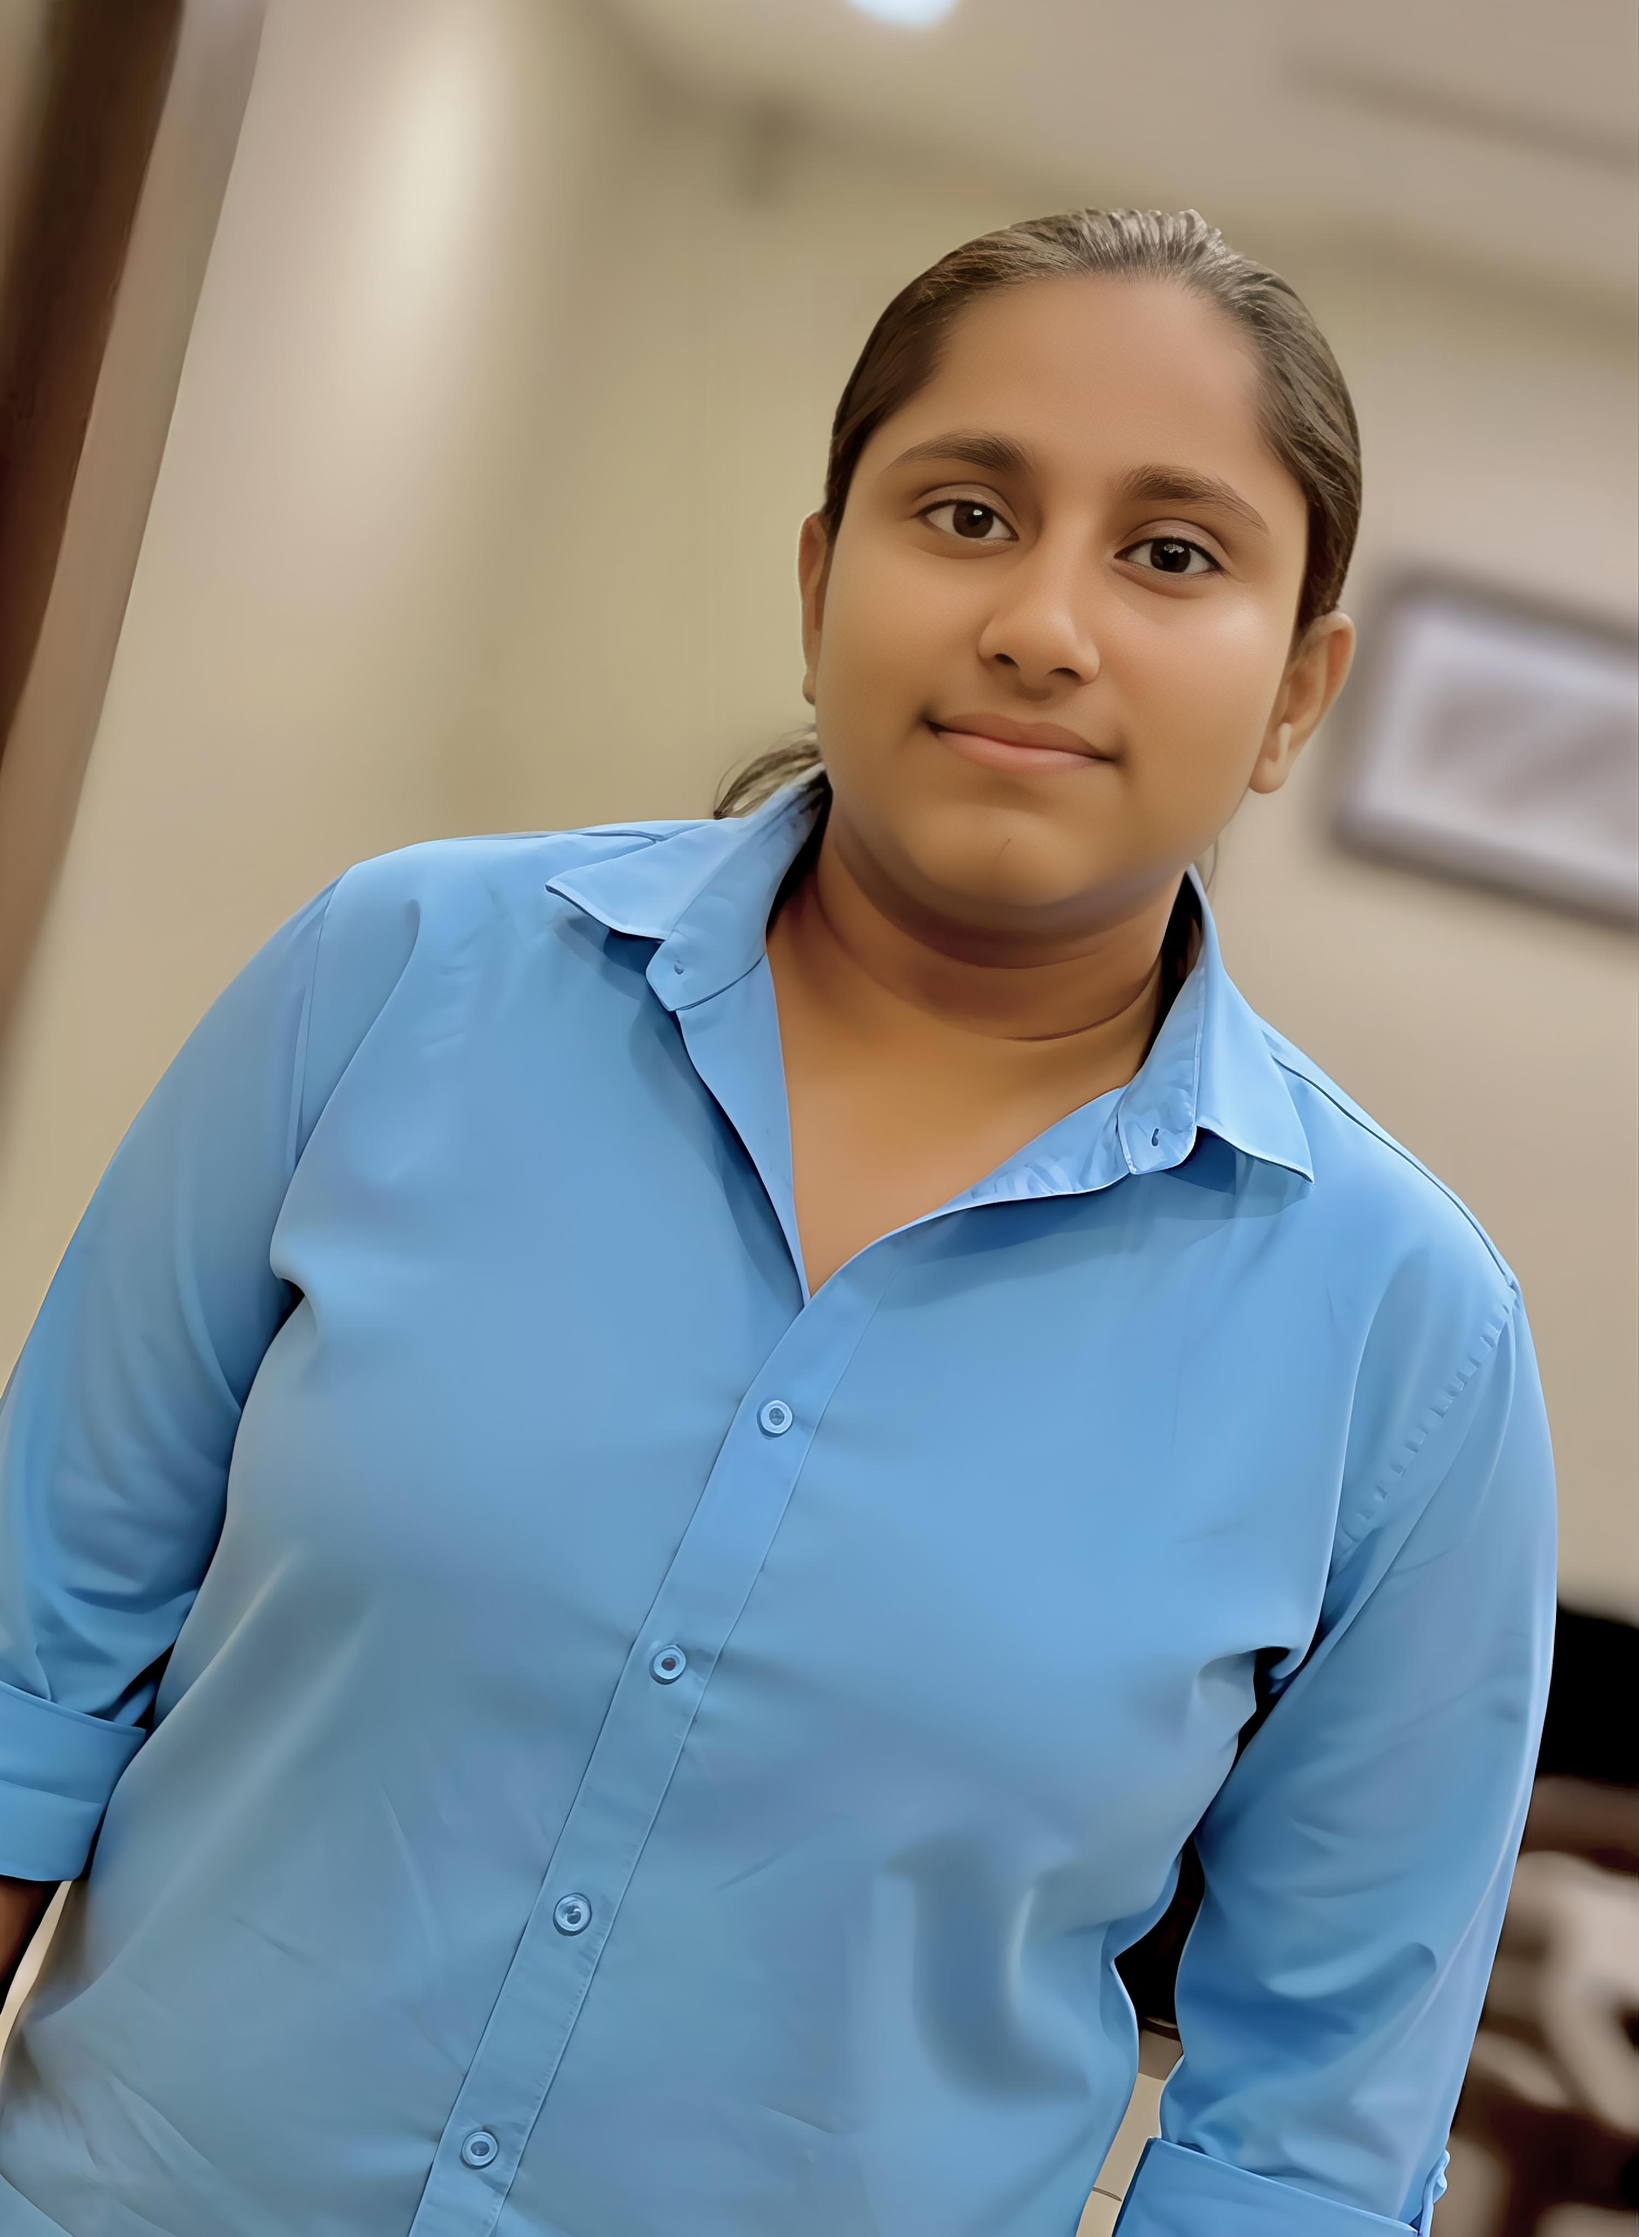
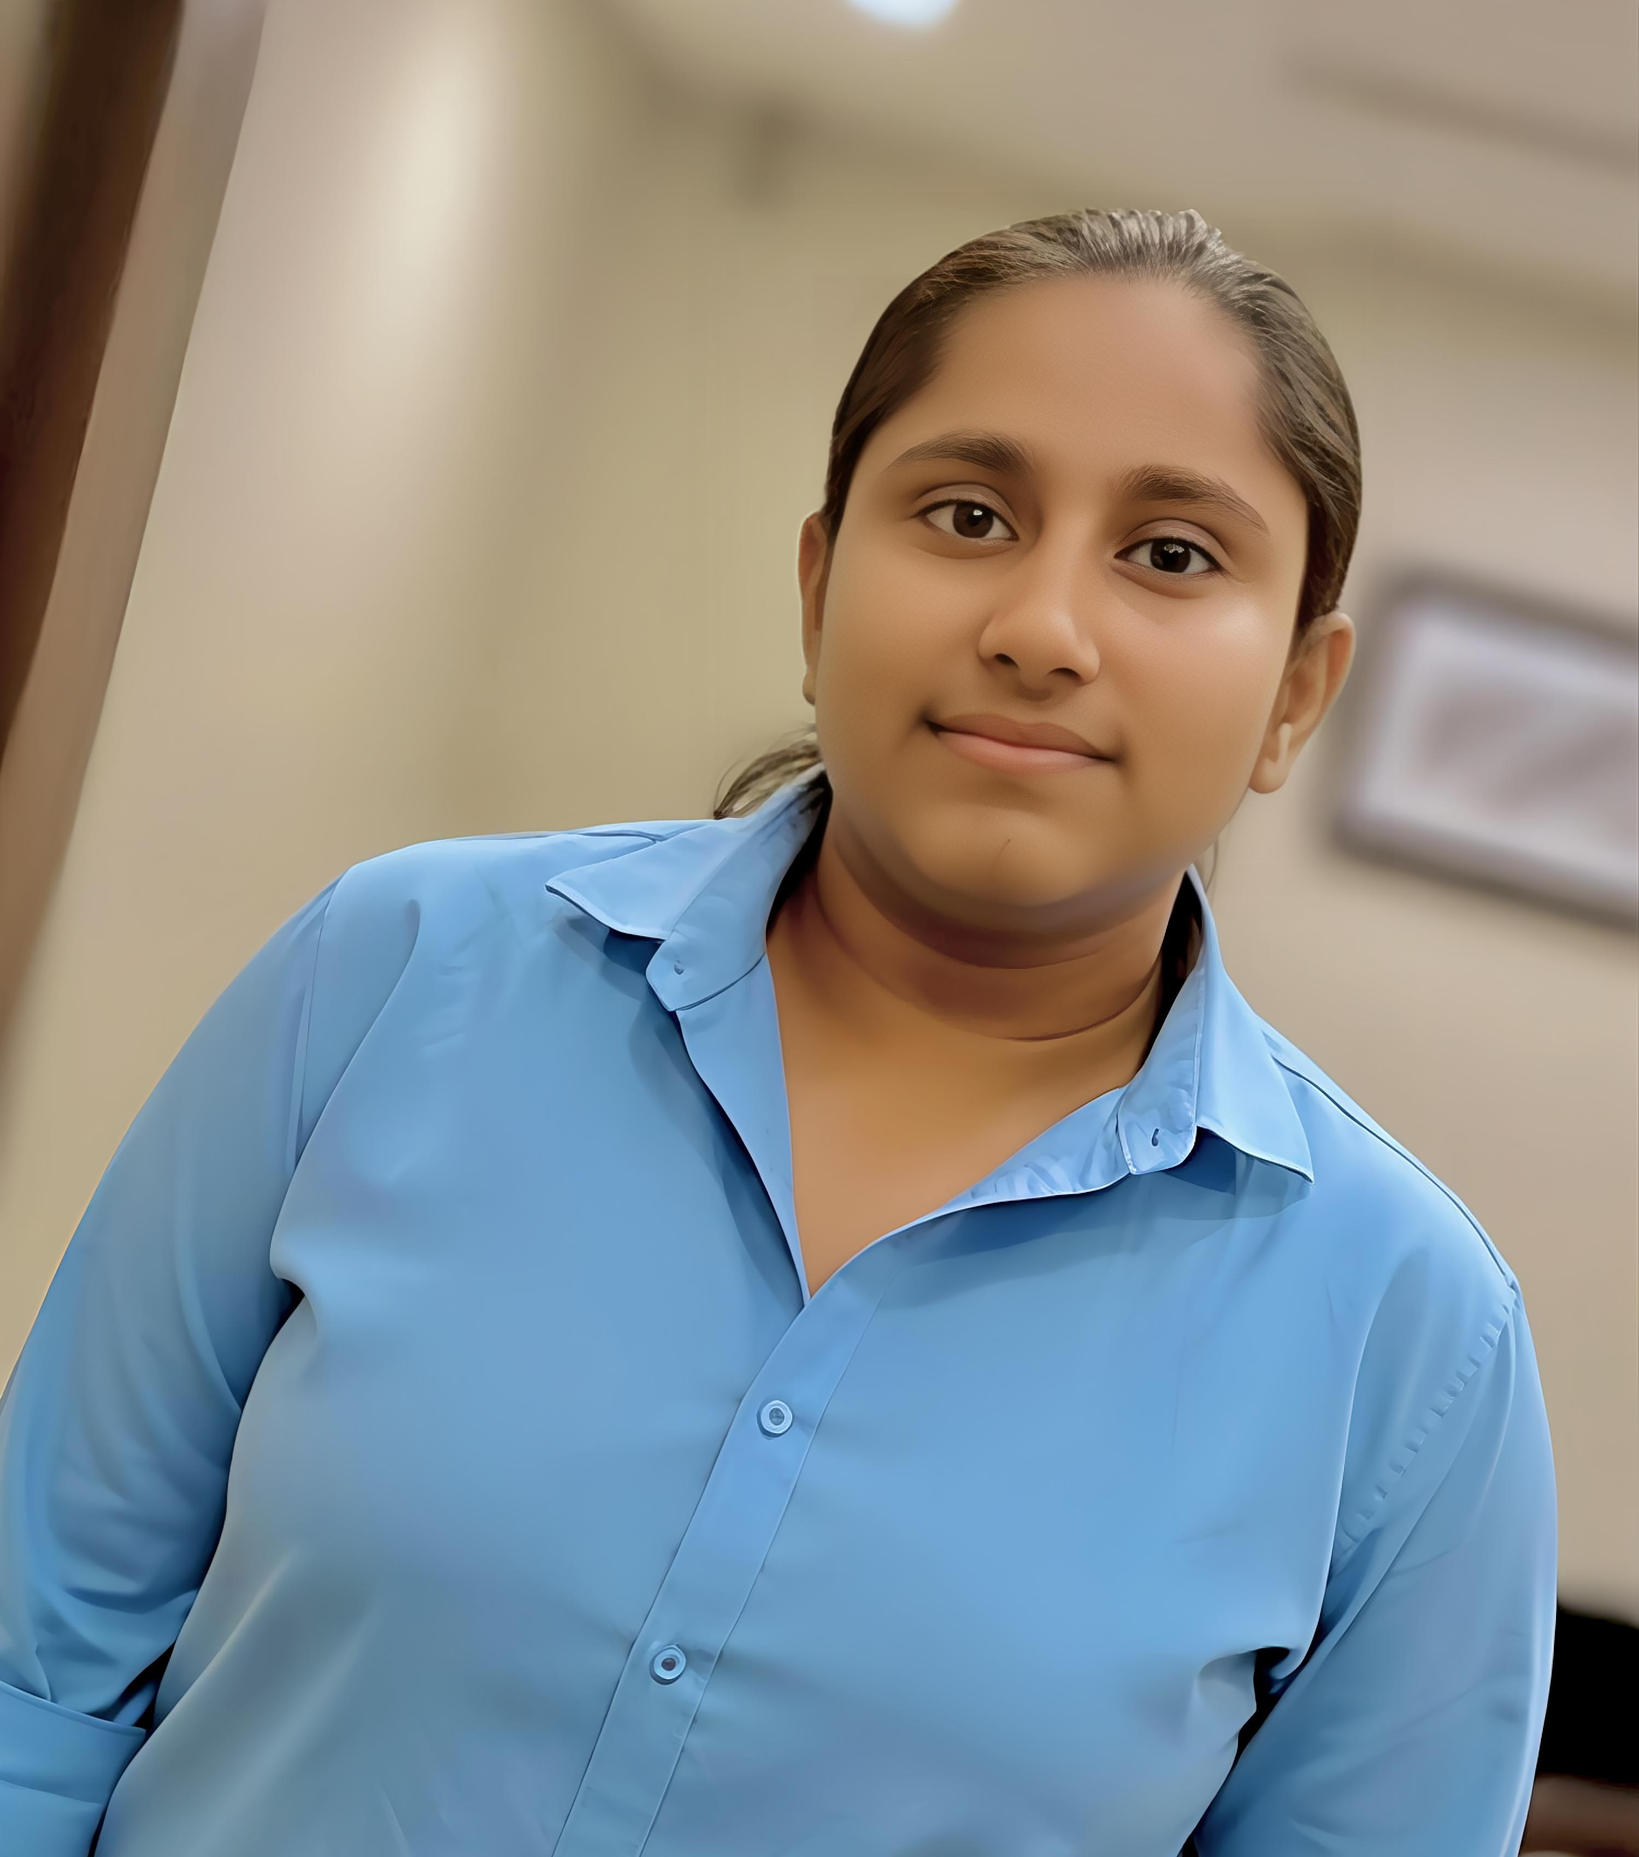
Add skills page and update profile image
Created skills.html to introduce the data analytics background and portfolio focus. Updated profile.jpg with a new image.

diff --git a/skills.html b/skills.html
@@ -1,0 +1,33 @@
+<!DOCTYPE html>
+<html lang="en">
+<head>
+  <meta charset="UTF-8">
+  <title>About Me | Nishu Pandit</title>
+  <meta name="viewport" content="width=device-width, initial-scale=1.0">
+  <link rel="stylesheet" href="./style.css">
+</head>
+<body>
+
+  <section class="project">
+    <h1>About Me</h1>
+
+    <p>
+      I am a Data Analytics student with a strong interest in solving business
+      problems using data. I enjoy working with messy datasets, identifying
+      patterns, and transforming insights into meaningful decisions.
+    </p>
+
+    <p>
+      I am currently focused on strengthening my skills in SQL, Power BI,
+      Python, and applied statistics while building practical, real-world
+      analytics projects.
+    </p>
+
+    <p>
+      This portfolio reflects my learning journey and the projects I am
+      continuously improving as I grow into a confident data analyst.
+    </p>
+  </section>
+
+</body>
+</html>
